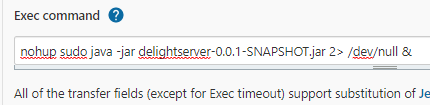
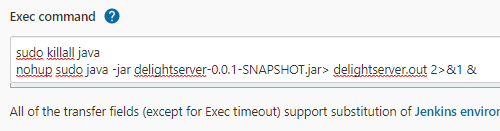
docs : jenkinsGuide 목차별 dropdown 으로 정리

diff --git a/README.md b/README.md
@@ -6,34 +6,41 @@ java, AWS 를 이용합니다.
 
 ### Jenkins 란 무엇인가?
   * CI/CD 를 도와주는 tool 입니다.
-  * 보통 Master/Slave machine 으로 구성되에 Master 에 
-    Jenkins 가 돌아가며 github 에서 project 를 받아 build 하여
+  * 보통 Master/Slave machine 으로 구성되에 Master 에    
+    Jenkins 가 돌아가며 github 에서 project 를 받아 build 하여    
     완성본을 Slave 에 옮겨 실행시키는 역활을 합니다.
   * Jenkins 는 [City](https://en.wikipedia.org/wiki/City_(novel)) 라는 소설의 
-    로봇 집사 이름입니다.  
+    로봇 집사 이름입니다.   
     
-### EC2 Ubuntu 에서 실행시키기   
+### 
+
+  <details>
+  <summary>
+  Jenkins 실행시키기   
+  </summary>
+  <br>
+
   * [EC2를 고르실 때 최소한 2GB 메모리가 있는 머신을 골라주세요.](https://stackoverflow.com/questions/57991172/aws-ec2-t2-micro-unlimited-jenkins-maven-very-slow-build-hangs)    
     <br>
-    
+  
   * 급하시면 jenkins-ec2-installer.sh 가 있습니다.   
     Jenkins 설정 부분에서 이어서 하시면 됩니다.   
     ubuntu, ec2 전용입니다.   
     <br>
-    
-  * 기초공사를 합니다.   
+  
+  * 기초공사를 합니다.
     ```
     sudo apt update
     sudo apt -y upgrade
     ```   
     <br>
-
+  
   * Jenkins 의 경우 jdk 를 사용합니다.
     ```
     sudo apt -y install openjdk-8-jdk
     ```   
     <br>
-
+  
   * Jenkins 를 설치합니다.
     ```
     wget -q -O - https://pkg.jenkins.io/debian-stable/jenkins.io.key | sudo apt-key add -
@@ -46,14 +53,14 @@ java, AWS 를 이용합니다.
     2번째 줄은 /etc/apt/sources.list 에 글을 작성하는 코드입니다.   
     해당 코드로 Jenkins 는 update,install 이 가능하게 됩니다.     
     <br>
-    
-  * Jenkins 를 시작합니다.   
+  
+  * Jenkins 를 시작합니다.
     ```
     sudo systemctl start jenkins
     sudo systemctl enable jenkins
     ```   
     <br>
-
+  
   * Jenkins 비밀번호를 표시합니다.
     ```
     echo The password for jenkins is :
@@ -63,42 +70,55 @@ java, AWS 를 이용합니다.
     운영체제, provider 에 따라 위치가 다를 수 있습니다.    
     곧 정확한 위치가 나옵니다. 안나온다면 스킵해주세요.   
     <br>
-
+  
   * Jenkins 설치한 서버의 ip:8080 으로 들어갑니다.    
     <br>
-    
-  * 위 위 단계에서 cat 한 initialAdminPassword 를 입력해줍니다.
+  
+  * 위 위 단계에서 cat 한 initialAdminPassword 를 입력해줍니다.   
+    <br>
     ![](img/jenkinsPassword.PNG)    
     만약 비번이 안나왔다면 화면에 나온 비번 주소를 다시 cat 해봅시다.   
     Jenkins 홈 주소도 잘 인지해주세요.   
     <br>
-    
+  
   * 권장 플러그인을 설치합니다.   
     <br>
-    
+  
   * 회원가입 합니다.    
-    <br>
-    
+  <br>
+  </details>
+  <br>
+  <details>
+  <summary>
+  Slave machine 등록
+  </summary>
+  <br>
 
-### Slave machine 등록
   * publish over ssh 플러그인 설치합니다.    
-    Jenkins 관리 -> 플러그인 관리 -> 설치 가능 -> 검색 -> 재시작 없이 설치  
+    Jenkins 관리 -> 플러그인 관리 -> 설치 가능 -> 검색 -> 재시작 없이 설치   
+    <br>
     ![](img/jenkins관리.PNG)   
+    <br>
     ![](img/플러그인관리.PNG)   
+    <br>
     ![](img/플러그인설치.PNG)   
+    <br>
     ![](img/publishOverSSHInstall.PNG)    
     <br>
-    
+  
   * Slave machine 등록    
     Slave machine 이 될 ec2 를 생성합니다.      
     SSH 포트를 마스터 ip 와 local ip 만 가능하게 열어둡니다.   
     나머지는 필요에 따라 설정하세요.      
     <br>
     다시 jenkins 로 돌아오셔서   
+    <br>
     ![](img/시스템%20설정.PNG)     
     설정 화면에서 스크롤을 아래로 계속 하시다보면    
+    <br>
     ![](img/publishoversshsetup1.PNG)    
     이 화면이 나옵니다. 추가를 클릭해주세요.    
+    <br>
     ![](img/sshSlaveSetting1.PNG)    
     이곳이 이제 slave machine 을 세팅하는 곳입니다.   
     <br>
@@ -106,16 +126,18 @@ java, AWS 를 이용합니다.
     Hostname : slave 의 ip 를 넣어주세요.   
     Username : slave 에 ssh 에 사용되는 username 을 넣어주세요.   
     <br>
-    
-    참고   
+  
+    참고    
+    <br>
     AMI 별 username   
     ![](img/officialAMIUsername.PNG)    
     <br>
     다 설정하셨다면 고급을 눌러줍니다.    
     <br>
-    
+  
     ![](img/sshSlaveSetting2.PNG)   
-    이 화면이 나오는데   
+    이 화면이 나오는데    
+    <br>
     Use Password authentication or ... 를 체크합니다.   
     key 에 aws 에서 제공받은 slave 의 pem key 를 복붙합니다.      
     <br>
@@ -123,25 +145,40 @@ java, AWS 를 이용합니다.
     <br>
     연결이 다 되셨다면 위 방법을 반복하여 slave 를 더 추가하시고 저장 버튼을 누릅니다.       
     <br>
-    
-
-## Gradle, Maven 설치 설정
-  * Gradle, Maven 설치 설정    
-    Master 에서 build 를 하고 slave 로 넘겨주기 전 jar build 를 위한 설정입니다.    
-    Global tools configuration -> Gradle / Maven
-    ![](img/globalToolsConfiguration.PNG)
   
+  </details>
+  <br>
+  <details>
+  <summary>
+  Gradle, Maven 설치
+  </summary>
+  <br>
+
+  * Gradle, Maven 설치   
+    Master 에서 build 를 하고 slave 로 넘겨주기 전 jar build 를 위한 설정입니다.     
+    <br>
+    Global tools configuration -> Gradle / Maven
+    ![](img/globalToolsConfiguration.PNG)   
+    <br>
     gradle 의 경우   
     Install automatically -> Install from Gradle.org   
-    ![](img/installGradle.PNG)    
+    ![](img/installGradle.PNG)     
+    <br>
     maven 의 경우   
     Install automatically -> Install from Apache      
     ![](img/installMaven.PNG)    
     설정이 끝나시면 save 를 눌러주세요.   
     <br>
-    
-  * Jenkins 업데이트   
-    Jenkins 가 업데이트 안되어 있을 때 gradle 과 maven 을 인식하지 못하는 
+  </details>
+  <br>
+  <details>
+  <summary>
+  Jenkins 업데이트
+  </summary>
+  <br>
+
+  * Jenkins 업데이트    
+    Jenkins 가 업데이트 안되어 있을 때 gradle 과 maven 을 인식하지 못하는
     버그가 존재합니다.   
     ![](img/플러그인관리.PNG)    
     플러그인 관리로 들어갑니다.    
@@ -151,13 +188,21 @@ java, AWS 를 이용합니다.
     <br>
     ![](img/업데이트.PNG)   
     지금 확인 버튼을 누르시면 jenkins 가 업데이트 됩니다.   
-    <br>
-    
-## 아이템 생성
+  <br>
+  </details>
+  <br>
+  <details>
+  <summary>
+  아이템 생성
+  </summary>
+  <br>
+
   * 아이템 생성   
     Jenkins 아이템은 빌드의 한 단위라고 생각하시면 됩니다.   
+    <br>
     ![](img/itemDashboard.PNG)    
-    메인화면 대쉬보드에서 새롷은 item 을 클릭합니다.   
+    메인화면에서 새로운 item 을 클릭합니다.   
+    <br>
     ![](img/buildItem.PNG)    
     item name 은 아무거나 입력해주시고 freestyle project 를 눌러주세요.      
     (욕심이 더 있으시다면 pipeline 도 알아보시면 좋습니다.)    
@@ -165,50 +210,53 @@ java, AWS 를 이용합니다.
     <br>
   * Github 설정    
     ![](img/cloneGit.PNG)       
-    push 되면 deploy 될 github 의 .git 주소를 복사합니다.
+    push 되면 deploy 될 github 의 .git 주소를 복사합니다.   
+    <br>
     ![](img/gitSetup.PNG)    
     여기에서 .git 으로 끝난다는 점을 유의하세요.   
     가져와서 build 할 branch 설정도 가능합니다.    
+    <br>
     ![](img/buildtrigger.PNG)    
     빌드 유발에 GITScm 도 체크해주세요.    
+    <br>
     ![](img/githubCreateWebhook.PNG)   
     다시 github 로 돌아와주셔서 다음 단계를 따르시면 됩니다.   
     여기에서 Payload URL 에    
     http://본인masterIp주소:8080/github-webhook/   
     로 해주시면 됩니다.   
     <br>
-    
+  
   * Add Build Step   
-    이 단계는 master 에서 github 프로젝트에서 파일을 받아 
+    이 단계는 master 에서 github 프로젝트에서 파일을 받아
     build 를 하는 단계입니다.   
     ![](img/addBuildStep.PNG)   
     본인의 프로젝트에 따라 골라주세요.    
     <br>
-    
+  
     gradle 의 경우   
     ![](img/gradleBuild.PNG)   
     버전을 골라주시고 clean build 해주세요.    
     <br>
-    
+  
     maven 의 경우   
     ![](img/mavenBuild.PNG)   
     명령어가 clean install 로 다릅니다.    
     <br>
-    
+  
     추가적인 gradle 이나 maven command 는 윈하시는대로 더 넣어주시면 됩니다.   
     <br>
-    
+  
   * 빌드 후 조치 추가   
-    이 단계는 master 에서 빌드가 완료된 이후에 slave 에게 
+    이 단계는 master 에서 빌드가 완료된 이후에 slave 에게
     조치를 취하는 단계입니다.   
     ![](img/afterBuild.PNG)    
     <br>
-    
+  
     여기서부터 빡집중 부탁드립니다.   
     <br>
     위에서 인지해두라고 했던   
     Jenkins home directory 기억 나시나요?   
-    
+    <br>
     ![](img/workspace.PNG)   
     저는 workspace 에 work 라는 파일이 있는데,   
     여러분은 아직 아무런 파일이 없을 것입니다.   
@@ -216,6 +264,7 @@ java, AWS 를 이용합니다.
     이 work 라는 파일명은      
     ![](img/buildItem.PNG)   
     위에서 만든 item name 입니다.   
+    <br>
     이 안에 들어가보면   
     ![](img/workspaceWorkFile.PNG)   
     repository 의 파일이 있습니다.   
@@ -237,25 +286,31 @@ java, AWS 를 이용합니다.
     꼭 jar 파일만 보낼 필요는 없죠.   
     이미지, 파일, html 등 필요한걸 보내실 수 있어야 합니다.   
     <br>
+  
+  * Execute Command   
     마지막으로 Exec command 에 slave 가 수행할 명령을 적습니다.       
+    <br>
     ![](img/execCommand.PNG)     
     (aws ubuntu의 경우)   
     slave 명령의 수행 위치는 /home/ubuntu 입니다.   
     <br>
-    `2> /dev/null` 의 이유는 nohup 이후에 enter 를 칠 필요가 없게 만들기 위해서입니다.   
-    build 를 할 때 문제는 없지만, warning 이 나옵니다.   
+    `> delightserver.out 2>&1 &` 의 이유는   
+    nohup 이후에 enter 를 칠 필요가 없게 만들어서 jenkins 진행을 돕고      
+    delightserver.out 이라는 파일에 무시되는 화면을 저장하기 위해서입니다.   
     <br>
-    이제 마지막으로 저장하시고...   
-    
+    이제 마지막으로 저장하시고...
+  
     ![](img/buildNowLoading.PNG)       
-    Build Now 를 눌러주시면...    
-    
+    Build Now 를 눌러주시면...
+  
     <br>
-
-    두구두구두구두구.....   
+  
+    두구두구두구두구.....    
     <br>
-    ![](img/buildNowComplete.PNG)   
-    성공!   
+    ![](img/buildNowComplete.PNG)    
+    성공!    
     <br>
     ![](img/buildConsoleOutput.PNG)     
-    눌러보셔서 console Output 을 확인하실 수 있습니다.   
+    Build 번호를 눌러보시면 console Output 을 확인하실 수 있습니다.
+  </details>
+  <br>
